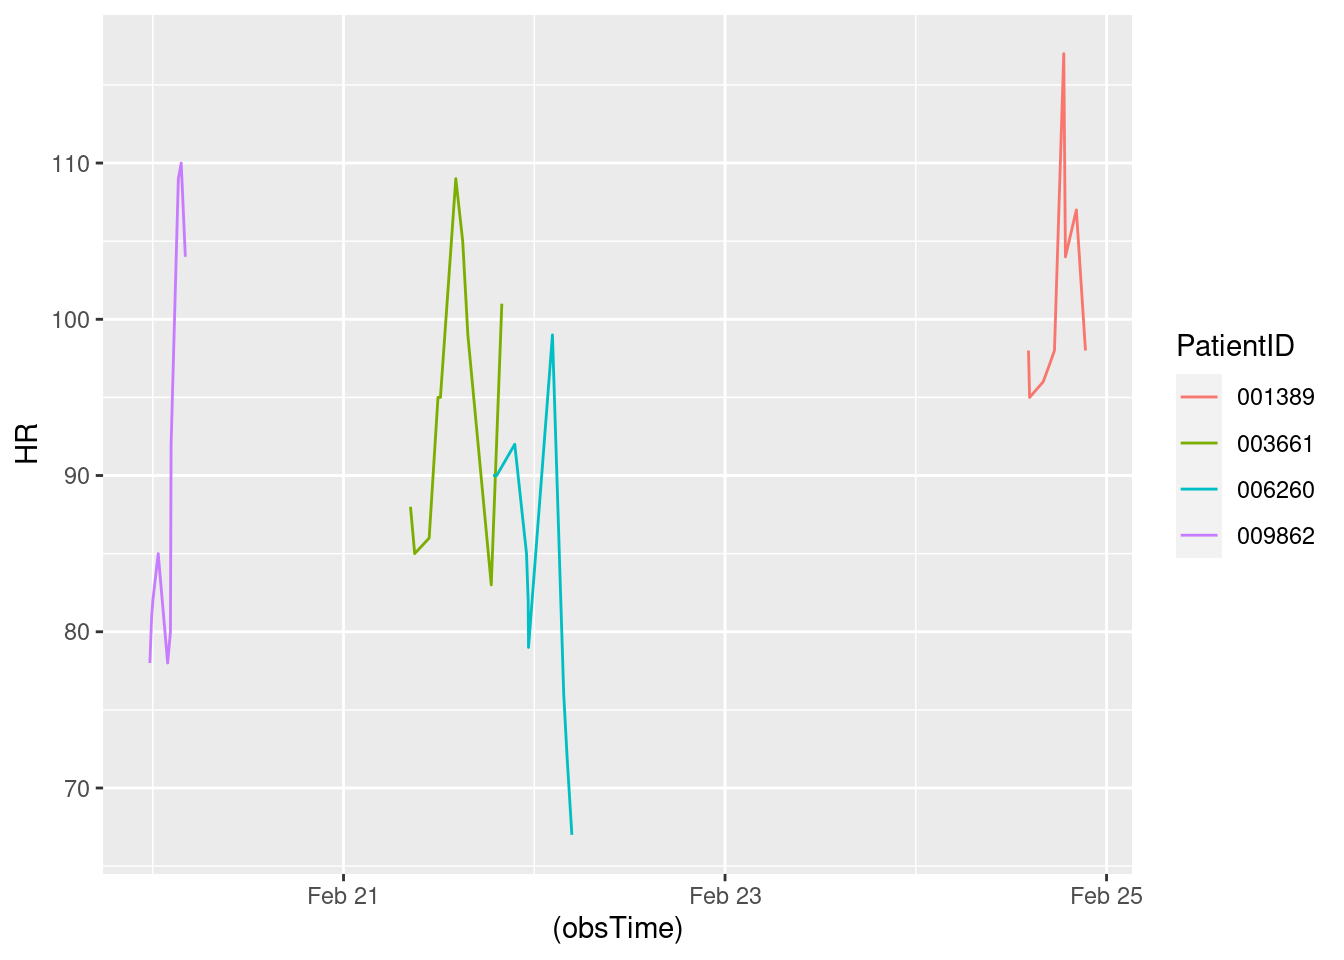
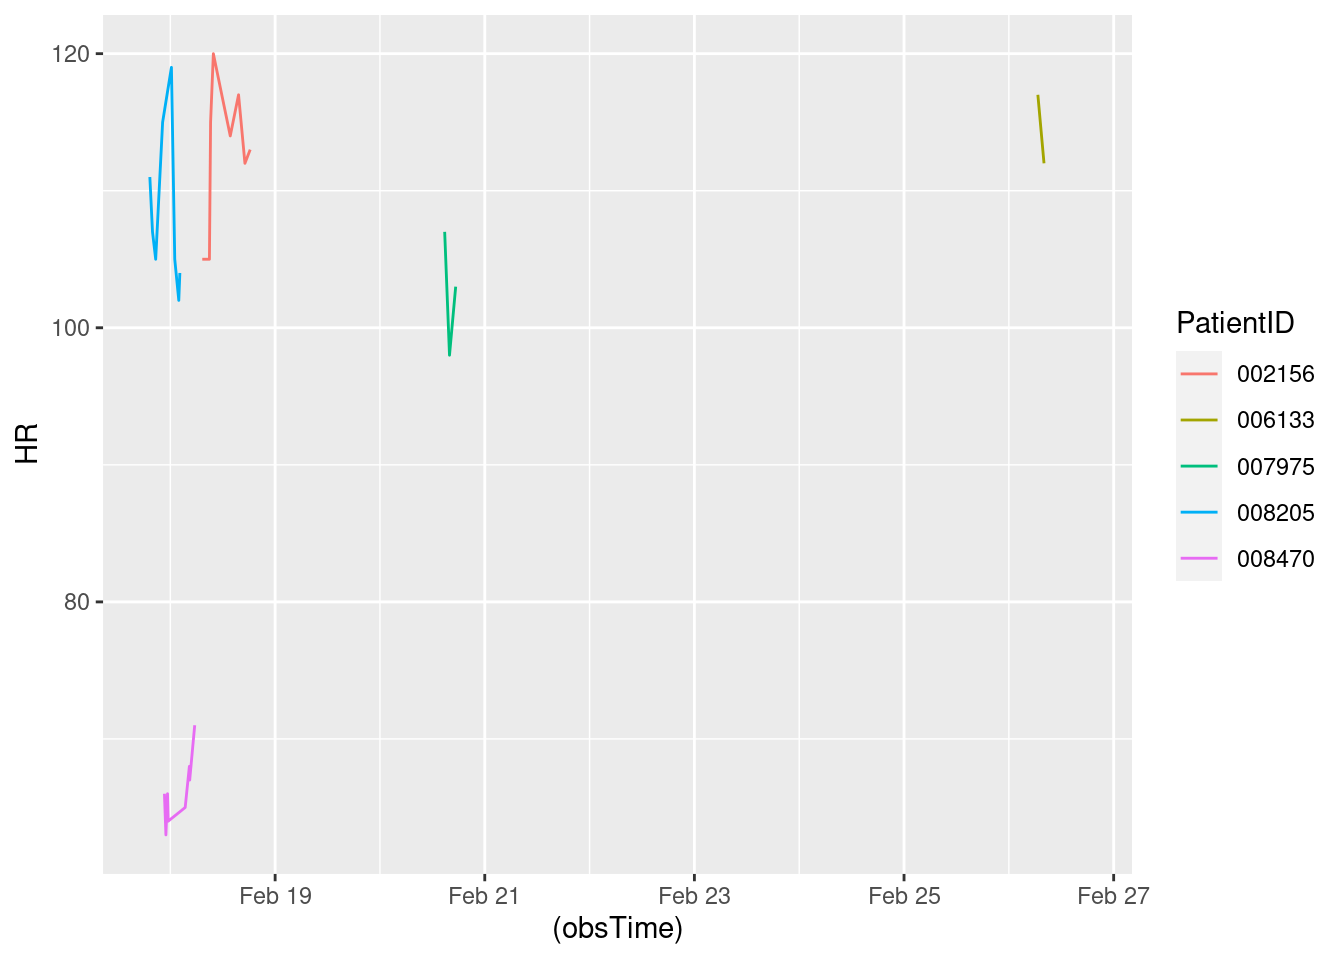
Updated report

diff --git a/HW7.html b/HW7.html
@@ -152,7 +152,7 @@ The following object is masked from 'package:purrr':
 </div>
 <div class="sourceCode cell-code" id="cb8"><pre class="sourceCode r code-with-copy"><code class="sourceCode r"><span id="cb8-1"><a href="#cb8-1" aria-hidden="true" tabindex="-1"></a><span class="fu">toc</span>()</span></code><button title="Copy to Clipboard" class="code-copy-button"><i class="bi"></i></button></pre></div>
 <div class="cell-output cell-output-stdout">
-<pre><code>14.017 sec elapsed</code></pre>
+<pre><code>13.169 sec elapsed</code></pre>
 </div>
 <div class="sourceCode cell-code" id="cb10"><pre class="sourceCode r code-with-copy"><code class="sourceCode r"><span id="cb10-1"><a href="#cb10-1" aria-hidden="true" tabindex="-1"></a><span class="fu">tic</span>()</span>
 <span id="cb10-2"><a href="#cb10-2" aria-hidden="true" tabindex="-1"></a>test1<span class="ot">=</span><span class="fu">makeSepsisDataset</span>(<span class="at">n=</span><span class="dv">50</span>,<span class="at">read_fn =</span> <span class="st">"read_delim"</span>)</span>
@@ -162,7 +162,7 @@ The following object is masked from 'package:purrr':
 </div>
 <div class="sourceCode cell-code" id="cb12"><pre class="sourceCode r code-with-copy"><code class="sourceCode r"><span id="cb12-1"><a href="#cb12-1" aria-hidden="true" tabindex="-1"></a><span class="fu">toc</span>()</span></code><button title="Copy to Clipboard" class="code-copy-button"><i class="bi"></i></button></pre></div>
 <div class="cell-output cell-output-stdout">
-<pre><code>11.437 sec elapsed</code></pre>
+<pre><code>10.961 sec elapsed</code></pre>
 </div>
 <div class="sourceCode cell-code" id="cb14"><pre class="sourceCode r code-with-copy"><code class="sourceCode r"><span id="cb14-1"><a href="#cb14-1" aria-hidden="true" tabindex="-1"></a><span class="fu">tic</span>()</span>
 <span id="cb14-2"><a href="#cb14-2" aria-hidden="true" tabindex="-1"></a>test1<span class="ot">=</span><span class="fu">makeSepsisDataset</span>(<span class="at">n=</span><span class="dv">100</span>,<span class="at">read_fn =</span> <span class="st">"fread"</span>)</span>
@@ -172,7 +172,7 @@ The following object is masked from 'package:purrr':
 </div>
 <div class="sourceCode cell-code" id="cb16"><pre class="sourceCode r code-with-copy"><code class="sourceCode r"><span id="cb16-1"><a href="#cb16-1" aria-hidden="true" tabindex="-1"></a><span class="fu">toc</span>()</span></code><button title="Copy to Clipboard" class="code-copy-button"><i class="bi"></i></button></pre></div>
 <div class="cell-output cell-output-stdout">
-<pre><code>24.711 sec elapsed</code></pre>
+<pre><code>22.66 sec elapsed</code></pre>
 </div>
 <div class="sourceCode cell-code" id="cb18"><pre class="sourceCode r code-with-copy"><code class="sourceCode r"><span id="cb18-1"><a href="#cb18-1" aria-hidden="true" tabindex="-1"></a><span class="fu">tic</span>()</span>
 <span id="cb18-2"><a href="#cb18-2" aria-hidden="true" tabindex="-1"></a>test1<span class="ot">=</span><span class="fu">makeSepsisDataset</span>(<span class="at">n=</span><span class="dv">100</span>,<span class="at">read_fn =</span> <span class="st">"read_delim"</span>)</span>
@@ -182,7 +182,7 @@ The following object is masked from 'package:purrr':
 </div>
 <div class="sourceCode cell-code" id="cb20"><pre class="sourceCode r code-with-copy"><code class="sourceCode r"><span id="cb20-1"><a href="#cb20-1" aria-hidden="true" tabindex="-1"></a><span class="fu">toc</span>()</span></code><button title="Copy to Clipboard" class="code-copy-button"><i class="bi"></i></button></pre></div>
 <div class="cell-output cell-output-stdout">
-<pre><code>21.98 sec elapsed</code></pre>
+<pre><code>21.445 sec elapsed</code></pre>
 </div>
 <div class="sourceCode cell-code" id="cb22"><pre class="sourceCode r code-with-copy"><code class="sourceCode r"><span id="cb22-1"><a href="#cb22-1" aria-hidden="true" tabindex="-1"></a><span class="fu">tic</span>()</span>
 <span id="cb22-2"><a href="#cb22-2" aria-hidden="true" tabindex="-1"></a>test1<span class="ot">=</span><span class="fu">makeSepsisDataset</span>(<span class="at">n=</span><span class="dv">500</span>,<span class="at">read_fn =</span> <span class="st">"fread"</span>)</span>
@@ -192,7 +192,7 @@ The following object is masked from 'package:purrr':
 </div>
 <div class="sourceCode cell-code" id="cb24"><pre class="sourceCode r code-with-copy"><code class="sourceCode r"><span id="cb24-1"><a href="#cb24-1" aria-hidden="true" tabindex="-1"></a><span class="fu">toc</span>()</span></code><button title="Copy to Clipboard" class="code-copy-button"><i class="bi"></i></button></pre></div>
 <div class="cell-output cell-output-stdout">
-<pre><code>115.464 sec elapsed</code></pre>
+<pre><code>112.022 sec elapsed</code></pre>
 </div>
 <div class="sourceCode cell-code" id="cb26"><pre class="sourceCode r code-with-copy"><code class="sourceCode r"><span id="cb26-1"><a href="#cb26-1" aria-hidden="true" tabindex="-1"></a><span class="fu">tic</span>()</span>
 <span id="cb26-2"><a href="#cb26-2" aria-hidden="true" tabindex="-1"></a>test1<span class="ot">=</span><span class="fu">makeSepsisDataset</span>(<span class="at">n=</span><span class="dv">500</span>,<span class="at">read_fn =</span> <span class="st">"read_delim"</span>)</span>
@@ -202,7 +202,7 @@ The following object is masked from 'package:purrr':
 </div>
 <div class="sourceCode cell-code" id="cb28"><pre class="sourceCode r code-with-copy"><code class="sourceCode r"><span id="cb28-1"><a href="#cb28-1" aria-hidden="true" tabindex="-1"></a><span class="fu">toc</span>()</span></code><button title="Copy to Clipboard" class="code-copy-button"><i class="bi"></i></button></pre></div>
 <div class="cell-output cell-output-stdout">
-<pre><code>111.138 sec elapsed</code></pre>
+<pre><code>108.686 sec elapsed</code></pre>
 </div>
 </div>
 <p>Problem 3: Speed reading</p>
@@ -244,7 +244,7 @@ dttm (1): obsTime
 <div class="sourceCode cell-code" id="cb35"><pre class="sourceCode r code-with-copy"><code class="sourceCode r"><span id="cb35-1"><a href="#cb35-1" aria-hidden="true" tabindex="-1"></a><span class="co">#Sys.Date()</span></span>
 <span id="cb35-2"><a href="#cb35-2" aria-hidden="true" tabindex="-1"></a><span class="fu">Sys.time</span>()</span></code><button title="Copy to Clipboard" class="code-copy-button"><i class="bi"></i></button></pre></div>
 <div class="cell-output cell-output-stdout">
-<pre><code>[1] "2024-02-17 18:25:01 UTC"</code></pre>
+<pre><code>[1] "2024-02-17 19:18:50 UTC"</code></pre>
 </div>
 <div class="sourceCode cell-code" id="cb37"><pre class="sourceCode r code-with-copy"><code class="sourceCode r"><span id="cb37-1"><a href="#cb37-1" aria-hidden="true" tabindex="-1"></a>dfnew<span class="ot">=</span>df <span class="sc">%&gt;%</span><span class="fu">subset</span>(SepsisLabel<span class="sc">==</span><span class="dv">1</span>)</span>
 <span id="cb37-2"><a href="#cb37-2" aria-hidden="true" tabindex="-1"></a></span>
@@ -259,19 +259,23 @@ dttm (1): obsTime
 <span id="cb37-11"><a href="#cb37-11" aria-hidden="true" tabindex="-1"></a></span>
 <span id="cb37-12"><a href="#cb37-12" aria-hidden="true" tabindex="-1"></a><span class="fu">print</span>(res)</span></code><button title="Copy to Clipboard" class="code-copy-button"><i class="bi"></i></button></pre></div>
 <div class="cell-output cell-output-stdout">
-<pre><code># A tibble: 4 × 7
-# Groups:   PatientID [4]
+<pre><code># A tibble: 5 × 7
+# Groups:   PatientID [5]
   PatientID ICULOS    HR  Temp  Resp SepsisLabel obsTime            
   &lt;chr&gt;      &lt;int&gt; &lt;int&gt; &lt;dbl&gt; &lt;int&gt;       &lt;int&gt; &lt;dttm&gt;             
-1 001389       171    98  NA      25           1 2024-02-24 21:20:48
-2 003661        98   101  NA      11           1 2024-02-21 19:54:58
-3 006260       107    67  38.3    14           1 2024-02-22 04:43:42
-4 009862        59   104  NA      21           1 2024-02-20 04:05:42</code></pre>
+1 002156        23   113  NA      27           1 2024-02-18 18:17:16
+2 006133       216    NA  NA      NA           1 2024-02-26 17:32:38
+3 007975        73   103  NA      17           1 2024-02-20 17:20:30
+4 008205         7   104  37.4    21           1 2024-02-18 02:10:56
+5 008470        11    71  NA      20           1 2024-02-18 05:35:16</code></pre>
 </div>
 </div>
 <div class="cell">
 <div class="sourceCode cell-code" id="cb39"><pre class="sourceCode r code-with-copy"><code class="sourceCode r"><span id="cb39-1"><a href="#cb39-1" aria-hidden="true" tabindex="-1"></a>dfnew <span class="sc">%&gt;%</span></span>
 <span id="cb39-2"><a href="#cb39-2" aria-hidden="true" tabindex="-1"></a>  <span class="fu">ggplot</span>()<span class="sc">+</span><span class="fu">geom_line</span>(<span class="fu">aes</span>(<span class="at">y=</span>HR,<span class="at">x=</span>(obsTime),<span class="at">color=</span>PatientID))</span></code><button title="Copy to Clipboard" class="code-copy-button"><i class="bi"></i></button></pre></div>
+<div class="cell-output cell-output-stderr">
+<pre><code>Warning: Removed 14 rows containing missing values (`geom_line()`).</code></pre>
+</div>
 <div class="cell-output-display">
 <div>
 <figure class="figure">
@@ -284,7 +288,7 @@ dttm (1): obsTime
 <section id="display-the-most-recent-data" class="level2">
 <h2 class="anchored" data-anchor-id="display-the-most-recent-data">Display the most recent data</h2>
 <div class="cell">
-<div class="sourceCode cell-code" id="cb40"><pre class="sourceCode r code-with-copy"><code class="sourceCode r"><span id="cb40-1"><a href="#cb40-1" aria-hidden="true" tabindex="-1"></a>most_recent_data</span></code><button title="Copy to Clipboard" class="code-copy-button"><i class="bi"></i></button></pre></div>
+<div class="sourceCode cell-code" id="cb41"><pre class="sourceCode r code-with-copy"><code class="sourceCode r"><span id="cb41-1"><a href="#cb41-1" aria-hidden="true" tabindex="-1"></a>most_recent_data</span></code><button title="Copy to Clipboard" class="code-copy-button"><i class="bi"></i></button></pre></div>
 <div class="cell-output cell-output-stdout">
 <pre><code># A tibble: 50 × 7
 # Groups:   PatientID [50]
@@ -307,32 +311,32 @@ dttm (1): obsTime
 <section id="calculate-the-difference" class="level2">
 <h2 class="anchored" data-anchor-id="calculate-the-difference">Calculate the difference</h2>
 <div class="cell">
-<div class="sourceCode cell-code" id="cb42"><pre class="sourceCode r code-with-copy"><code class="sourceCode r"><span id="cb42-1"><a href="#cb42-1" aria-hidden="true" tabindex="-1"></a><span class="fu">library</span>(dplyr)</span>
-<span id="cb42-2"><a href="#cb42-2" aria-hidden="true" tabindex="-1"></a><span class="fu">library</span>(tidyr)</span>
-<span id="cb42-3"><a href="#cb42-3" aria-hidden="true" tabindex="-1"></a><span class="fu">library</span>(knitr)</span>
-<span id="cb42-4"><a href="#cb42-4" aria-hidden="true" tabindex="-1"></a>get_observation_data <span class="ot">&lt;-</span> <span class="cf">function</span>(data, n, column_suffix) {</span>
-<span id="cb42-5"><a href="#cb42-5" aria-hidden="true" tabindex="-1"></a>  data <span class="sc">%&gt;%</span></span>
-<span id="cb42-6"><a href="#cb42-6" aria-hidden="true" tabindex="-1"></a>    <span class="fu">group_by</span>(PatientID) <span class="sc">%&gt;%</span></span>
-<span id="cb42-7"><a href="#cb42-7" aria-hidden="true" tabindex="-1"></a>    <span class="fu">slice_max</span>(<span class="at">order_by =</span> obsTime, <span class="at">n =</span> n) <span class="sc">%&gt;%</span></span>
-<span id="cb42-8"><a href="#cb42-8" aria-hidden="true" tabindex="-1"></a>    <span class="fu">select</span>(<span class="sc">-</span><span class="fu">c</span>(ICULOS, SepsisLabel, obsTime)) <span class="sc">%&gt;%</span></span>
-<span id="cb42-9"><a href="#cb42-9" aria-hidden="true" tabindex="-1"></a>    <span class="fu">rename_at</span>(<span class="fu">vars</span>(HR, Temp, Resp),</span>
-<span id="cb42-10"><a href="#cb42-10" aria-hidden="true" tabindex="-1"></a>              <span class="fu">list</span>(<span class="sc">~</span><span class="fu">paste0</span>(., <span class="st">"_"</span>, column_suffix)))</span>
-<span id="cb42-11"><a href="#cb42-11" aria-hidden="true" tabindex="-1"></a>}</span>
-<span id="cb42-12"><a href="#cb42-12" aria-hidden="true" tabindex="-1"></a></span>
-<span id="cb42-13"><a href="#cb42-13" aria-hidden="true" tabindex="-1"></a></span>
-<span id="cb42-14"><a href="#cb42-14" aria-hidden="true" tabindex="-1"></a></span>
-<span id="cb42-15"><a href="#cb42-15" aria-hidden="true" tabindex="-1"></a></span>
-<span id="cb42-16"><a href="#cb42-16" aria-hidden="true" tabindex="-1"></a>last_obs <span class="ot">&lt;-</span> <span class="fu">get_observation_data</span>(new_data, <span class="dv">1</span>, <span class="st">"last"</span>)</span>
-<span id="cb42-17"><a href="#cb42-17" aria-hidden="true" tabindex="-1"></a>penultimate_obs <span class="ot">&lt;-</span> <span class="fu">get_observation_data</span>(new_data, <span class="dv">2</span>, <span class="st">"penult"</span>)</span>
-<span id="cb42-18"><a href="#cb42-18" aria-hidden="true" tabindex="-1"></a>joined_data <span class="ot">&lt;-</span> <span class="fu">full_join</span>(last_obs, penultimate_obs) <span class="sc">%&gt;%</span></span>
-<span id="cb42-19"><a href="#cb42-19" aria-hidden="true" tabindex="-1"></a>  <span class="fu">transmute</span>(PatientID,</span>
-<span id="cb42-20"><a href="#cb42-20" aria-hidden="true" tabindex="-1"></a>            <span class="st">`</span><span class="at">Temperature change</span><span class="st">`</span> <span class="ot">=</span> Temp_last <span class="sc">-</span> Temp_penult,</span>
-<span id="cb42-21"><a href="#cb42-21" aria-hidden="true" tabindex="-1"></a>            <span class="st">`</span><span class="at">Heart rate change</span><span class="st">`</span> <span class="ot">=</span> HR_last <span class="sc">-</span> HR_penult,</span>
-<span id="cb42-22"><a href="#cb42-22" aria-hidden="true" tabindex="-1"></a>            <span class="st">`</span><span class="at">Respiratory rate change</span><span class="st">`</span> <span class="ot">=</span> Resp_last <span class="sc">-</span> Resp_penult)</span></code><button title="Copy to Clipboard" class="code-copy-button"><i class="bi"></i></button></pre></div>
+<div class="sourceCode cell-code" id="cb43"><pre class="sourceCode r code-with-copy"><code class="sourceCode r"><span id="cb43-1"><a href="#cb43-1" aria-hidden="true" tabindex="-1"></a><span class="fu">library</span>(dplyr)</span>
+<span id="cb43-2"><a href="#cb43-2" aria-hidden="true" tabindex="-1"></a><span class="fu">library</span>(tidyr)</span>
+<span id="cb43-3"><a href="#cb43-3" aria-hidden="true" tabindex="-1"></a><span class="fu">library</span>(knitr)</span>
+<span id="cb43-4"><a href="#cb43-4" aria-hidden="true" tabindex="-1"></a>get_observation_data <span class="ot">&lt;-</span> <span class="cf">function</span>(data, n, column_suffix) {</span>
+<span id="cb43-5"><a href="#cb43-5" aria-hidden="true" tabindex="-1"></a>  data <span class="sc">%&gt;%</span></span>
+<span id="cb43-6"><a href="#cb43-6" aria-hidden="true" tabindex="-1"></a>    <span class="fu">group_by</span>(PatientID) <span class="sc">%&gt;%</span></span>
+<span id="cb43-7"><a href="#cb43-7" aria-hidden="true" tabindex="-1"></a>    <span class="fu">slice_max</span>(<span class="at">order_by =</span> obsTime, <span class="at">n =</span> n) <span class="sc">%&gt;%</span></span>
+<span id="cb43-8"><a href="#cb43-8" aria-hidden="true" tabindex="-1"></a>    <span class="fu">select</span>(<span class="sc">-</span><span class="fu">c</span>(ICULOS, SepsisLabel, obsTime)) <span class="sc">%&gt;%</span></span>
+<span id="cb43-9"><a href="#cb43-9" aria-hidden="true" tabindex="-1"></a>    <span class="fu">rename_at</span>(<span class="fu">vars</span>(HR, Temp, Resp),</span>
+<span id="cb43-10"><a href="#cb43-10" aria-hidden="true" tabindex="-1"></a>              <span class="fu">list</span>(<span class="sc">~</span><span class="fu">paste0</span>(., <span class="st">"_"</span>, column_suffix)))</span>
+<span id="cb43-11"><a href="#cb43-11" aria-hidden="true" tabindex="-1"></a>}</span>
+<span id="cb43-12"><a href="#cb43-12" aria-hidden="true" tabindex="-1"></a></span>
+<span id="cb43-13"><a href="#cb43-13" aria-hidden="true" tabindex="-1"></a></span>
+<span id="cb43-14"><a href="#cb43-14" aria-hidden="true" tabindex="-1"></a></span>
+<span id="cb43-15"><a href="#cb43-15" aria-hidden="true" tabindex="-1"></a></span>
+<span id="cb43-16"><a href="#cb43-16" aria-hidden="true" tabindex="-1"></a>last_obs <span class="ot">&lt;-</span> <span class="fu">get_observation_data</span>(new_data, <span class="dv">1</span>, <span class="st">"last"</span>)</span>
+<span id="cb43-17"><a href="#cb43-17" aria-hidden="true" tabindex="-1"></a>penultimate_obs <span class="ot">&lt;-</span> <span class="fu">get_observation_data</span>(new_data, <span class="dv">2</span>, <span class="st">"penult"</span>)</span>
+<span id="cb43-18"><a href="#cb43-18" aria-hidden="true" tabindex="-1"></a>joined_data <span class="ot">&lt;-</span> <span class="fu">full_join</span>(last_obs, penultimate_obs) <span class="sc">%&gt;%</span></span>
+<span id="cb43-19"><a href="#cb43-19" aria-hidden="true" tabindex="-1"></a>  <span class="fu">transmute</span>(PatientID,</span>
+<span id="cb43-20"><a href="#cb43-20" aria-hidden="true" tabindex="-1"></a>            <span class="st">`</span><span class="at">Temperature change</span><span class="st">`</span> <span class="ot">=</span> Temp_last <span class="sc">-</span> Temp_penult,</span>
+<span id="cb43-21"><a href="#cb43-21" aria-hidden="true" tabindex="-1"></a>            <span class="st">`</span><span class="at">Heart rate change</span><span class="st">`</span> <span class="ot">=</span> HR_last <span class="sc">-</span> HR_penult,</span>
+<span id="cb43-22"><a href="#cb43-22" aria-hidden="true" tabindex="-1"></a>            <span class="st">`</span><span class="at">Respiratory rate change</span><span class="st">`</span> <span class="ot">=</span> Resp_last <span class="sc">-</span> Resp_penult)</span></code><button title="Copy to Clipboard" class="code-copy-button"><i class="bi"></i></button></pre></div>
 <div class="cell-output cell-output-stderr">
 <pre><code>Joining with `by = join_by(PatientID)`</code></pre>
 </div>
-<div class="sourceCode cell-code" id="cb44"><pre class="sourceCode r code-with-copy"><code class="sourceCode r"><span id="cb44-1"><a href="#cb44-1" aria-hidden="true" tabindex="-1"></a><span class="fu">kable</span>(joined_data, <span class="at">caption =</span> <span class="st">"Patients' Recent Changes in Vital Stats"</span>)</span></code><button title="Copy to Clipboard" class="code-copy-button"><i class="bi"></i></button></pre></div>
+<div class="sourceCode cell-code" id="cb45"><pre class="sourceCode r code-with-copy"><code class="sourceCode r"><span id="cb45-1"><a href="#cb45-1" aria-hidden="true" tabindex="-1"></a><span class="fu">kable</span>(joined_data, <span class="at">caption =</span> <span class="st">"Patients' Recent Changes in Vital Stats"</span>)</span></code><button title="Copy to Clipboard" class="code-copy-button"><i class="bi"></i></button></pre></div>
 <div class="cell-output-display">
 <table class="table table-sm table-striped small">
 <caption>Patients’ Recent Changes in Vital Stats</caption>
